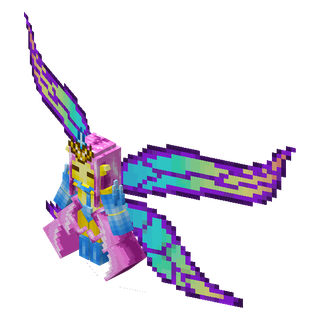
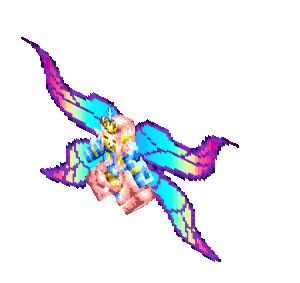
feat(stellarity): tich hop texture 3 form Empress of Light (Night, Daytime, Radiant)

Changed region(s): [[0.06, 0.0283, 0.93, 0.9611]]

diff --git a/stellarity.html b/stellarity.html
@@ -1081,12 +1081,20 @@
             <div class="harvester-specs-grid" style="margin: 14px 0; grid-template-columns: repeat(auto-fit, minmax(280px, 1fr));">
               <!-- Variant 1: Night -->
               <div class="specs-block">
-                <div class="specs-header" style="display: flex; align-items: center; gap: 6px;">
-                  <img src="assets/images/entities/eol_head_night.png" alt="Night EOL" style="width: 20px; height: 20px; image-rendering: pixelated;">
-                  <span>1. Dạng Ban Đêm / The End (Mặc định)</span>
+                <div class="specs-header" style="display: flex; align-items: center; justify-content: space-between;">
+                  <div style="display: flex; align-items: center; gap: 6px;">
+                    <img src="assets/images/entities/eol_head_night.png" alt="Night EOL" style="width: 20px; height: 20px; image-rendering: pixelated;">
+                    <span>1. Dạng Ban Đêm / The End</span>
+                  </div>
+                  <span class="badge" style="font-size: 0.75rem; background: rgba(168, 85, 247, 0.2); color: #c084fc; border: 1px solid rgba(168, 85, 247, 0.4); border-radius: 4px; padding: 2px 6px;">750 HP</span>
                 </div>
-                <div class="specs-row"><span>Máu tối đa</span><strong>750 HP</strong></div>
-                <div class="specs-row"><span>Cách triệu hồi</span><strong>Thả 1x Starlight Soot lên bệ Altar vào ban đêm</strong></div>
+                <div style="display: flex; justify-content: center; align-items: center; padding: 10px 0; background: radial-gradient(circle, rgba(168, 85, 247, 0.15) 0%, transparent 70%); margin: 6px 0;">
+                  <div class="item-sprite-box" data-mc-tooltip="Empress of Light" style="width: 100px; height: 100px; background: transparent; border: none; box-shadow: none;">
+                    <img src="assets/images/entities/empress_of_light_night.png" alt="Empress of Light (Night Form)" style="width: 96px; height: 96px; object-fit: contain; image-rendering: pixelated; filter: drop-shadow(0 4px 10px rgba(168, 85, 247, 0.5));">
+                  </div>
+                </div>
+                <div class="specs-row"><span>Máu tối đa</span><strong>750 HP (Mặc định)</strong></div>
+                <div class="specs-row"><span>Cách triệu hồi</span><strong>Thả 1x Starlight Soot lên Altar vào ban đêm / The End</strong></div>
                 <div class="specs-row"><span>Sát thương Dash</span><strong>26 Sát thương</strong></div>
                 <div class="specs-row"><span>Ethereal Lance</span><strong>14 Sát thương (xuyên 15% giáp)</strong></div>
                 <div class="specs-row"><span>Prismatic Bolts</span><strong>14 Sát thương (xuyên 10% giáp)</strong></div>
@@ -1095,13 +1103,21 @@
 
               <!-- Variant 2: Daytime -->
               <div class="specs-block">
-                <div class="specs-header" style="display: flex; align-items: center; gap: 6px;">
-                  <img src="assets/images/entities/eol_head_daytime.png" alt="Daytime EOL" style="width: 20px; height: 20px; image-rendering: pixelated;">
-                  <span>2. Dạng Ban Ngày (Tăng Tốc &amp; Khó)</span>
+                <div class="specs-header" style="display: flex; align-items: center; justify-content: space-between;">
+                  <div style="display: flex; align-items: center; gap: 6px;">
+                    <img src="assets/images/entities/eol_head_daytime.png" alt="Daytime EOL" style="width: 20px; height: 20px; image-rendering: pixelated;">
+                    <span style="color: #fb923c;">2. Dạng Ban Ngày (Cuồng Nộ)</span>
+                  </div>
+                  <span class="badge" style="font-size: 0.75rem; background: rgba(249, 115, 22, 0.2); color: #fdba74; border: 1px solid rgba(249, 115, 22, 0.4); border-radius: 4px; padding: 2px 6px;">800 HP</span>
                 </div>
-                <div class="specs-row"><span>Máu tối đa</span><strong>800 HP</strong></div>
+                <div style="display: flex; justify-content: center; align-items: center; padding: 10px 0; background: radial-gradient(circle, rgba(249, 115, 22, 0.15) 0%, transparent 70%); margin: 6px 0;">
+                  <div class="item-sprite-box" data-mc-tooltip="Empress of Light" style="width: 100px; height: 100px; background: transparent; border: none; box-shadow: none;">
+                    <img src="assets/images/entities/empress_of_light_daytime.png" alt="Empress of Light (Daytime Form)" style="width: 96px; height: 96px; object-fit: contain; image-rendering: pixelated; filter: drop-shadow(0 4px 10px rgba(249, 115, 22, 0.5));">
+                  </div>
+                </div>
+                <div class="specs-row"><span>Máu tối đa</span><strong>800 HP (Tăng tốc &amp; Khó)</strong></div>
                 <div class="specs-row"><span>Cách triệu hồi</span><strong>Thả 1x Starlight Soot tại Overworld vào ban ngày</strong></div>
-                <div class="specs-row highlight-max"><span>Sát thương Dash</span><strong>32 Sát thương</strong></div>
+                <div class="specs-row highlight-max"><span>Sát thương Dash</span><strong>32 Sát thương (Tăng tốc độ)</strong></div>
                 <div class="specs-row"><span>Ethereal Lance</span><strong>16 Sát thương (tốc độ bay 1.5 block/tick)</strong></div>
                 <div class="specs-row"><span>Prismatic Bolts</span><strong>16 Sát thương</strong></div>
                 <div class="specs-row highlight-max"><span>Phần thưởng Rơi</span><strong>100% Kaleidoscope, 100% Soaring Insignia, 50% Empress Wings, 30% Fluffy Hammer</strong></div>
@@ -1109,12 +1125,20 @@
 
               <!-- Variant 3: Radiant -->
               <div class="specs-block">
-                <div class="specs-header" style="display: flex; align-items: center; gap: 6px; color: #facc15;">
-                  <img src="assets/images/entities/eol_head_radiant.png" alt="Radiant EOL" style="width: 20px; height: 20px; image-rendering: pixelated;">
-                  <span>3. Radiant Empress (cầm Kaleidoscope khi triệu hồi)</span>
+                <div class="specs-header" style="display: flex; align-items: center; justify-content: space-between;">
+                  <div style="display: flex; align-items: center; gap: 6px;">
+                    <img src="assets/images/entities/eol_head_radiant.png" alt="Radiant EOL" style="width: 20px; height: 20px; image-rendering: pixelated;">
+                    <span style="color: #f472b6;">3. Radiant Empress (Hoàng Kim)</span>
+                  </div>
+                  <span class="badge" style="font-size: 0.75rem; background: rgba(244, 114, 182, 0.2); color: #f472b6; border: 1px solid rgba(244, 114, 182, 0.4); border-radius: 4px; padding: 2px 6px;">850 HP</span>
                 </div>
-                <div class="specs-row"><span>Máu tối đa</span><strong style="color: #facc15;">850 HP</strong></div>
-                <div class="specs-row"><span>Cách triệu hồi</span><strong>Cầm Kaleidoscope ở tay phụ (Offhand) + thả Starlight Soot ở tay chính</strong></div>
+                <div style="display: flex; justify-content: center; align-items: center; padding: 10px 0; background: radial-gradient(circle, rgba(244, 114, 182, 0.15) 0%, transparent 70%); margin: 6px 0;">
+                  <div class="item-sprite-box" data-mc-tooltip="Empress of Light" style="width: 100px; height: 100px; background: transparent; border: none; box-shadow: none;">
+                    <img src="assets/images/entities/empress_of_light_radiant.png" alt="Empress of Light (Radiant Form)" style="width: 96px; height: 96px; object-fit: contain; image-rendering: pixelated; filter: drop-shadow(0 4px 10px rgba(244, 114, 182, 0.5));">
+                  </div>
+                </div>
+                <div class="specs-row"><span>Máu tối đa</span><strong style="color: #facc15;">850 HP (Tối thượng)</strong></div>
+                <div class="specs-row"><span>Cách triệu hồi</span><strong>Cầm Kaleidoscope ở tay phụ + thả Starlight Soot lên Altar</strong></div>
                 <div class="specs-row highlight-max"><span>Sát thương Dash</span><strong>32 Sát thương (Xuyên 30% giáp, kèm Lance/Bolt)</strong></div>
                 <div class="specs-row"><span>Ethereal Lance</span><strong>22 Sát thương (triệu hồi thêm 10 kiếm, xuyên 33% giáp)</strong></div>
                 <div class="specs-row"><span>Prismatic Bolts</span><strong>17–18 Sát thương, kèm cháy Prismatic Inferno</strong></div>
@@ -1163,10 +1187,10 @@
                 </p>
                 <ul class="item-bonus-list">
                   <li><strong>Phá Hủy Khối Block (Block Breaking):</strong> Nghiền nát các khối gạch Purpur và End Stone xung quanh để triệt tiêu hoàn toàn chiến thuật dựng tường ẩn nấp của người chơi.</li>
-                  <li><strong>Chuyển Hướng Đạn (Redirect Bullets):** Cưỡng chế xoay toàn bộ đạn Shulker trong khu vực tập trung lao thẳng vào mục tiêu.</li>
-                  <li><strong>Gai Nhọn Trồi Đất (Shulking Spikes):** Phóng ra những hàng chông nhọn trồi từ mặt sàn đâm xuyên giáp.</li>
-                  <li><strong>Tia Quét Laser (Ray Beam):** Bắn chùm tia năng lượng hủy diệt tầm xa càn quét địa hình.</li>
-                  <li><strong>Triệu Hồi Tay Sai:** Triệu tập Shulker Cảm Tử (Explosive Shulker) phát nổ diện rộng và Shulkhead Skeleton (Bộ xương đội vỏ Shulker).</li>
+                  <li><strong>Chuyển Hướng Đạn (Redirect Bullets):</strong> Cưỡng chế xoay toàn bộ đạn Shulker trong khu vực tập trung lao thẳng vào mục tiêu.</li>
+                  <li><strong>Gai Nhọn Trồi Đất (Shulking Spikes):</strong> Phóng ra những hàng chông nhọn trồi từ mặt sàn đâm xuyên giáp.</li>
+                  <li><strong>Tia Quét Laser (Ray Beam):</strong> Bắn chùm tia năng lượng hủy diệt tầm xa càn quét địa hình.</li>
+                  <li><strong>Triệu Hồi Tay Sai:</strong> Triệu tập Shulker Cảm Tử (Explosive Shulker) phát nổ diện rộng và Shulkhead Skeleton (Bộ xương đội vỏ Shulker).</li>
                 </ul>
               </div>
             </div>
@@ -3131,7 +3155,7 @@
               <div class="recipe-box">
                 <div class="recipe-box-title">CÁCH LẤY: HẠ EMPRESS OF LIGHT BAN NGÀY</div>
                 <div class="recipe-inline">
-                  <div class="mc-slot" data-mc-tooltip="Daytime Empress of Light"><img src="assets/images/entities/empress_of_light.png" alt="Daytime Empress"></div>
+                  <div class="mc-slot" data-mc-tooltip="Daytime Empress of Light"><img src="assets/images/entities/empress_of_light_daytime.png" alt="Daytime Empress"></div>
                   <span class="recipe-plus">→</span>
                   <div class="mc-slot" data-mc-tooltip="Tỉ lệ rơi 10%"><img src="assets/images/trinkets/soaring_insignia.png" alt="Soaring Insignia"></div>
                 </div>
@@ -3170,7 +3194,9 @@
                   <span class="recipe-plus">+</span>
                   <div class="mc-slot" data-mc-tooltip="Starlight Soot (Mainhand)"><img src="assets/images/ingredients/starlight_soot.png" alt="Starlight Soot"></div>
                   <span class="recipe-plus">→</span>
-                  <div class="mc-slot" data-mc-tooltip="Radiant Jewel"><img src="assets/images/trinkets/radiant_jewel.png" alt="Radiant Jewel"></div>
+                  <div class="mc-slot" data-mc-tooltip="Radiant Empress of Light (850 HP)"><img src="assets/images/entities/empress_of_light_radiant.png" alt="Radiant Empress"></div>
+                  <span class="recipe-plus">→</span>
+                  <div class="mc-slot" data-mc-tooltip="Radiant Jewel (100% Drop)"><img src="assets/images/trinkets/radiant_jewel.png" alt="Radiant Jewel"></div>
                 </div>
                 <p class="recipe-note">Rơi 100% từ biến thể Radiant Empress of Light (850 HP) triệu hồi bằng nghi lễ đặc biệt.</p>
               </div>

diff --git a/docs/03 - Development/Test Matrix & Bug Tracking.md b/docs/03 - Development/Test Matrix & Bug Tracking.md
@@ -120,6 +120,7 @@
 | **BUG-55** | P1 | Đồng bộ và nâng cấp khiên Crest of The End chuẩn theo tài liệu Wiki chính thức (`https://prismaticshards.wiki.gg/wiki/Crest_of_The_End`) | (1) Khai thác thông số kỹ thuật chuẩn wiki: cơ chế tích tụ sát thương phản đòn +15%/đòn chặn (cộng dồn tối đa 3 tầng lên tới +45% cho nhát chém tiếp theo trong 2.5s); cơ chế khắc chế đòn Rìu (Axe Counter) kích hoạt vụ nổ AoE bán kính 4 khối gây 14 sát thương và áp hiệu ứng Jinx trong 8 giây (bào mòn Giáp & Độ cứng giáp) đồng thời sạc đầy ngay 3 tầng phản đòn (+45%); miễn nhiễm hoàn toàn Lửa & Dung Nham; (2) Công thức rèn Altar of The Accursed: 1 Shield + 1 Enderite Smithing Template + 1 Netherite Ingot; (3) Sử dụng ảnh render 3D Isometric chuẩn `assets/images/shields/crest_of_the_end_3d.png` kèm `data-mc-tooltip="Crest of The End"`; (4) Chuẩn hóa danh mục rơi Boss Rồng Ender (bỏ tàn dư rơi Crest of The End từ bản cũ v2.2.0 sang Dragonblade và Dragon Wings). | 🟢 Đã sửa |
 | **BUG-56** | P1 | Đồng bộ toàn bộ thông tin danh mục Trinkets (Spellbooks, Shields, Other) theo tài liệu Wiki chính thức (`https://prismaticshards.wiki.gg/wiki/Stellarity_Trinkets`) | (1) Khai thác wikitext toàn bộ 18 trinkets từ wiki chính thức, chia làm 3 nhóm chuẩn xác: Spellbooks (Book of Jinx, Light, Obstruct, Updraft, Conveyance, Return), Shields (Copper Elektra Shield, Crest of The End, Starstruck Shield), Other (Enderman's Hand, Life Crystal, Duskberry, Prismatic Pearl, Soaring Insignia, Satchel of Voids, Void Pendant, Radiant Jewel); xác nhận 2 món đã xóa (Dragon's Eye, Living Flesh); (2) Đính chính Satchel of Voids từ "túi trữ đồ" thành "bệ thờ Altar of The Accursed di động (32.5s) và vĩnh viễn khi gắn lên Crying Obsidian"; (3) Bổ sung 2 thẻ phụ kiện chính thức: Enderman's Hand (+3 khối tầm với tương tác, rơi 10% từ Enderman) và Life Crystal (đứng yên hồi phục tối đa Regeneration IV, rơi 66% từ Ender Dragon); (4) Tải và chuẩn hóa 2 texture `endermans_hand.png` và `life_crystal.png` vào `assets/images/trinkets/`; (5) Đạt 288/288 ảnh nội bộ hợp lệ (0 link hỏng), 100% thẻ HTML cân bằng. | 🟢 Đã sửa |
 | **BUG-57** | P1 | Tích hợp 5 trứng sinh (Spawn Eggs) chính thức của Stellarity (`Flesh Piglin`, `Voided Silverfish`, `Voided Skeleton`, `Voided Slime`, `Voided Zombie`) vào Mục 5 và gán nhãn "Đợi ảnh chính thức" cho các mob còn lại | (1) Nhận diện và đồng bộ 5 ảnh spawn egg từ tệp người dùng tải lên và resource pack vào thư mục `assets/images/eggs/`: `flesh_piglin_spawn_egg.png`, `voided_silverfish_spawn_egg.png`, `voided_skeleton_spawn_egg.png`, `voided_slime_spawn_egg.png`, `voided_zombie_spawn_egg.png`; (2) Tách riêng các thẻ quái vật Hư Không độc lập: Voided Zombie, Voided Skeleton (cầm Cung Call of The Void) và bổ sung thẻ mới Voided Slime; (3) Cập nhật hiển thị sprite trứng sinh độ nét pixel-art cao (`.spawn-egg-img`) kèm hover tooltip chính thức; (4) Gán huy hiệu và ghi chú "Đợi ảnh chính thức" cho Pixie, Frosted Stray, Phantom, Ender Wolf và Ender Cat; (5) Đạt 290/290 ảnh nội bộ hợp lệ (0 link hỏng), 100% thẻ HTML đóng mở chuẩn xác. | 🟢 Đã sửa |
+| **BUG-58** | P1 | Tích hợp đầy đủ bộ texture 3 dạng (Forms) của Boss Empress of Light (`Night`, `Daytime`, `Radiant`) từ tư liệu người dùng tải lên và hiển thị trực quan trong Mục 5 & Mục 8 | (1) Phân tích dải màu RGBA và trích xuất 3 texture sprite chính thức của Nữ Đế Ánh Sáng vào `assets/images/entities/`: Dạng Ban Đêm `empress_of_light_night.png` (váy cam đào hoàng hôn, 750 HP), Dạng Ban Ngày `empress_of_light_daytime.png` (váy đỏ lửa cuồng nộ, 800 HP), Dạng Tối Thượng Radiant `empress_of_light_radiant.png` (váy hồng cánh sen ánh kim, 850 HP); (2) Tái thiết kế cụm 3 biến thể trong thẻ Đại Boss 2 Mục 5 trên `stellarity.html`: hiển thị trực quan toàn thân sprite 3D của cả 3 dạng với hiệu ứng hào quang tương ứng, tooltip Minecraft chuẩn `data-mc-tooltip="Empress of Light"`; (3) Đồng bộ ảnh dạng Ban Ngày cho ô rơi đồ Soaring Insignia và ảnh dạng Radiant cho quy trình triệu hồi rơi 100% Radiant Jewel tại Mục 8; (4) Khắc phục lỗi markdown asterisk tồn đọng tại bộ chiêu thức Shulking; (5) Đạt 293/293 ảnh nội bộ hợp lệ (0 link hỏng), 100% thẻ HTML đóng mở hoàn hảo. | 🟢 Đã sửa |
 
 
 
